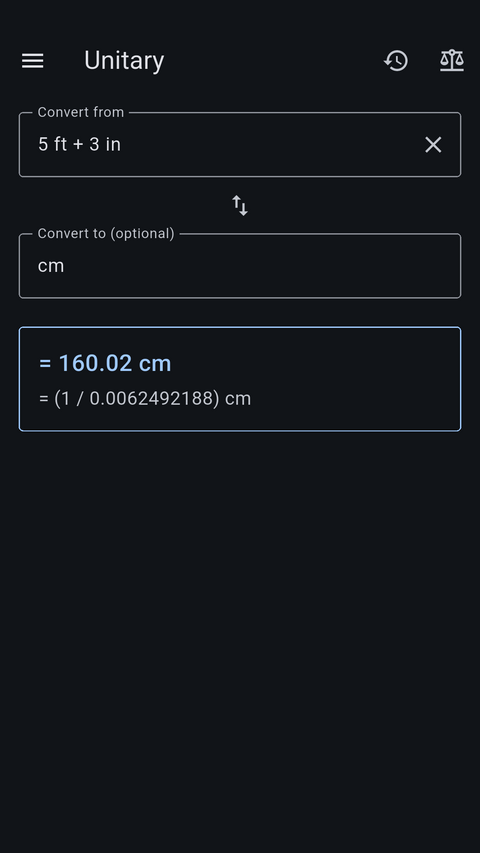
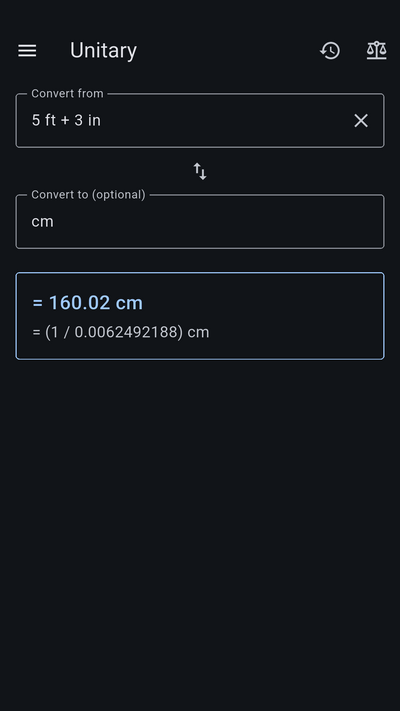
make README screenshots 400px wide to sit side-by-side

Changed region(s): [[0.18, 0.0619, 0.21, 0.0928]]

diff --git a/doc/design_progress.md b/doc/design_progress.md
@@ -649,7 +649,7 @@ Questions that arose during design but haven't been resolved:
   - `tool/check_store_listing_lib.dart` (47 tests) reads each PNG's `IHDR` chunk with no image dependency and checks text lengths in runes, image sizes, aspect ratios, colour type, the icon's 1024 KB limit, and the 4–8 screenshots per set.  One test runs it against the committed tree, so a listing that breaks Play's rules fails CI, the same pattern that protects the README's links
   - **Play requires tablet screenshots to be exactly 16:9 or 9:16** (1080–7680 px per side), and every stock tablet emulator profile installed (Nexus 7 2013, Pixel Tablet) is 16:10.  `tool/take_screenshots.sh` therefore creates three AVDs from the API 35 image with overridden `hw.lcd.width`/`height`/`density`: 1080×1920 at 420 dpi (phone, compact layout), 1080×1920 at 240 dpi (7-inch, medium layout), and 2560×1440 at 320 dpi in landscape (10-inch, expanded layout with the navigation rail).  Each runs headless on its own port, so a capture never lands on some other connected device, and is shut down before the next starts.  The phone set is new as well: the first upload used the README images, 480 px wide, below Play's 1080 px condition for promoting an app
   - The capture flow now follows whichever layout it finds: the navigation rail or the drawer, the worksheet dropdown or the template list, a pushed unit detail or an embedded one.  `--dart-define=SCREENSHOT_SET=tablet` adapts it to the two-pane layouts, running three conversions before the freeform capture so the history pane is not empty, and the driver's output directory comes from `SCREENSHOT_DIR`.  Every set ends with Settings in the dark theme and again in the light theme, the one capture that shows the theming the description advertises: seven phone screenshots and six per tablet, within Play's eight
-  - **The README screenshots are now derived from the phone set**: the `phone` target writes 480 px wide copies to `doc/screenshots/` under the names the README uses, and the separate README capture on the old Pixel 6 Pro profile is gone.  The two sets were the same flow over the same pages; only their output differed (480 px for embedding, since markdownlint forbids HTML sizing, against Play's full resolution), and one capture keeps them from drifting apart.  The README images become 9:16 rather than 19.5:9, which nothing depended on.  The README's unit-detail alt text, which still named the newton after the capture switched to hbar, was corrected
+  - **The README screenshots are now derived from the phone set**: the `phone` target writes 400 px wide copies to `doc/screenshots/` under the names the README uses, narrow enough that any two fit side by side, so the README now shows the unit browser beside the unit detail as well as the two Settings themes together.  (The old capture script's header promised a 400 px Settings pair, but its loop had resized all seven images to 480, too wide for a pair), and the separate README capture on the old Pixel 6 Pro profile is gone.  The two sets were the same flow over the same pages; only their output differed (480 px for embedding, since markdownlint forbids HTML sizing, against Play's full resolution), and one capture keeps them from drifting apart.  The README images become 9:16 rather than 19.5:9, which nothing depended on.  The README's unit-detail alt text, which still named the newton after the capture switched to hbar, was corrected
   - **The captures have no status bar.**  The integration-test binding records only the Flutter surface, so the clock, battery, and notifications never appear, in the README screenshots too.  SystemUI demo mode was planned to fix the status bar and was dropped once the first capture showed there was nothing to fix
   - **`pumpAndSettle` was not enough on the 10-inch emulator**: its Settings capture caught the page transition halfway, both pages blended.  Every capture now settles, waits 500 ms in real time, and settles again
   - Run-to-run differences that remain: the Currency worksheet's banner and Settings show the seeded rate timestamp, which is the capture time (a fixed older timestamp would trigger a real rate fetch), and the text cursor may or may not be mid-blink.  Comparing a re-capture against committed images found differences in exactly those places and nowhere else

diff --git a/openspec/changes/store-listing/specs/store-screenshots/spec.md b/openspec/changes/store-listing/specs/store-screenshots/spec.md
@@ -90,7 +90,8 @@ shut down only emulators it started.
 ### Requirement: The README screenshots are derived from the phone set
 
 The README screenshots in `doc/screenshots/` SHALL be copies of the phone set,
-downscaled to 480 px wide and named after the page each shows (`freeform.png`,
+downscaled to 400 px wide so that the README can show any two side by side,
+and named after the page each shows (`freeform.png`,
 `worksheet.png`, `currency.png`, `browser.png`, `unit-detail.png`,
 `settings-dark.png`, `settings-light.png`).  Capturing the phone set SHALL
 regenerate them; no separate README capture SHALL exist.  Capturing a tablet
@@ -99,7 +100,7 @@ set SHALL NOT modify `doc/screenshots/`.
 #### Scenario: Phone capture updates the README
 
 - **WHEN** `tool/take_screenshots.sh phone` runs
-- **THEN** `doc/screenshots/` holds the seven named files, each a 480 px wide
+- **THEN** `doc/screenshots/` holds the seven named files, each a 400 px wide
   copy of the corresponding phone screenshot
 
 #### Scenario: Tablet capture leaves the README alone

diff --git a/CONTRIBUTING.md b/CONTRIBUTING.md
@@ -102,8 +102,8 @@ Console by hand.
 - **Screenshots:** `tool/take_screenshots.sh phone`, `seven-inch`, or
   `ten-inch` captures one set, and `store` captures all three.  Each set has
   its own emulator profile, created on first use.  The phone target also
-  regenerates the README screenshots in `doc/screenshots/`, as 480 px wide
-  copies of the phone set.  The feature graphic shows the phone set's
+  regenerates the README screenshots in `doc/screenshots/`, as copies of the
+  phone set downscaled to 400 px wide, so that two fit side by side.  The feature graphic shows the phone set's
   worksheet screenshot, so re-capture the phone set before re-rendering it.
 - **Checks:** `test/tool/check_store_listing_lib_test.dart` fails when any of
   these files breaks Play's requirements (text length, image size, aspect

diff --git a/openspec/changes/store-listing/proposal.md b/openspec/changes/store-listing/proposal.md
@@ -30,8 +30,8 @@ layouts are worth showing.
   a user would: drawer or navigation rail, template dropdown or list pane,
   pushed or embedded unit detail.  Store captures keep full resolution and use
   the dark theme, except for a final Settings capture in the light theme.
-- The README screenshots are derived from the phone set, downscaled to the
-  480 px width the README embeds them at, so a single phone capture produces
+- The README screenshots are derived from the phone set, downscaled to 400 px
+  wide so that any two fit side by side, so a single phone capture produces
   both and the separate README capture on its own emulator is retired.
 - A test checks the committed images against Play's requirements: dimensions,
   aspect ratios, alpha channel, and the minimum screenshot counts.

diff --git a/openspec/changes/store-listing/design.md b/openspec/changes/store-listing/design.md
@@ -265,7 +265,9 @@ variable, defaulting to `build/screenshots/`.
 
 The `phone` target also writes the README screenshots to `doc/screenshots/`,
 under the names the README already uses, as copies of the phone set
-downscaled to 480 px wide.  The README needs its own smaller files because
+downscaled to 400 px wide, narrow enough that the README can place any two
+side by side, as it does the browser and unit detail, and the two Settings
+themes.  The README needs its own smaller files because
 markdownlint forbids HTML sizing, so a 1080 px image would display at full
 width, and Play needs the full-resolution ones.  Neither needs a separate
 capture: the README previously came from its own run on a taller 19.5:9 phone

diff --git a/openspec/changes/store-listing/tasks.md b/openspec/changes/store-listing/tasks.md
@@ -119,4 +119,6 @@
 - [x] 7.5 Fix the README's unit-detail alt text, which names the newton while
   the capture shows hbar
 - [x] 7.6 Update `CONTRIBUTING.md` and the `doc/` tracking files
-
+- [x] 7.7 Downscale every README screenshot to 400 px instead of 480, so any
+  two fit side by side: the Settings pair, as the README intended (found by
+  code review), and the unit browser beside the unit detail
